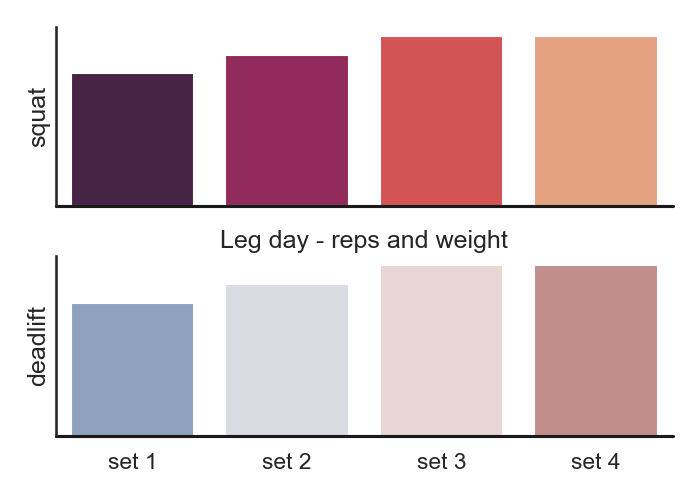
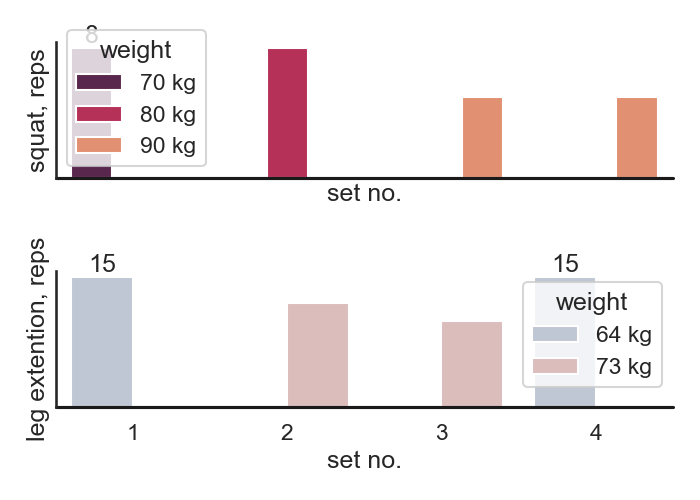
Add test placeholder. Improve figure

diff --git a/src/plot.py b/src/plot.py
@@ -4,6 +4,7 @@ Author: Gustav Collin Rasmussen
 Purpose: Plot weight-training data
 """
 
+import pandas as pd
 import numpy as np
 import seaborn as sns
 import matplotlib.pyplot as plt
@@ -12,46 +13,62 @@ from tinydb import TinyDB
 
 from training import describe_workout, show_exercise
 
+# import matplotlib
+# print("matplotlib: {}".format(matplotlib.__version__))
 
-def get_data():
+
+def get_data(date, exercises):
     db = TinyDB("data/db.json")
     log = db.table("log")
 
-    # data = describe_workout(log, "2021-12-13")
-    data = show_exercise(log, "squat", "2021-12-11")
-    return data
+    dfs = []
+    for exercise in exercises:
+        _ = show_exercise(log, exercise, date)
+        dfs.append(pd.DataFrame(data=_))
+
+    return dfs
 
 
-def show_plot(data):
+def show_plot(dfs):
     """Plot training data from specific date"""
     sns.set_theme(style="white", context="talk")
 
     f, (ax1, ax2) = plt.subplots(2, 1, figsize=(7, 5), sharex=True)
 
-    x = np.array(["set 1", "set 2", "set 3", "set 4"])
-    y1 = np.array([70, 80, 90, 90])
-    sns.barplot(x=x, y=y1, palette="rocket", ax=ax1)
+    sns.barplot(
+        x=dfs[0]["set no."],
+        y=dfs[0]["reps"],
+        hue=dfs[0]["weight"],
+        palette="rocket",
+        ax=ax1,
+    )
     ax1.axhline(0, color="k", clip_on=False)
-    ax1.set_ylabel("squat")
+    ax1.set_ylabel("squat, reps")
+    ax1.bar_label(ax1.containers[0])
 
-    y2 = np.array([70, 80, 90, 90])
-    sns.barplot(x=x, y=y2, palette="vlag", ax=ax2)
+    sns.barplot(
+        x=dfs[1]["set no."],
+        y=dfs[1]["reps"],
+        hue=dfs[1]["weight"],
+        palette="vlag",
+        ax=ax2,
+    )
     ax2.axhline(0, color="k", clip_on=False)
-    ax2.set_ylabel("deadlift")
+    ax2.set_ylabel("leg extention, reps")
+    ax2.bar_label(ax2.containers[0])
 
     sns.despine(bottom=True)
     plt.setp(f.axes, yticks=[])
     plt.tight_layout(h_pad=2)
-    plt.title("Leg day - reps and weight")
-    # plt.legend(labels=["a", "b", "c", "d"])
     plt.savefig("img/legday.png")
 
 
-def main(data):
-    show_plot(data)
+def main(dfs):
+    show_plot(dfs)
 
 
 if __name__ == "__main__":
-    data = get_data()
-    # print(data)
-    main(data)
+    dfs = get_data("2021-12-11", ["squat", "leg extention"])
+    # for df in dfs:
+    #     print(df)
+    main(dfs)

diff --git a/test/test_training.py b/test/test_training.py
@@ -1,0 +1,8 @@
+"""
+unit test suite for src folder
+"""
+
+
+def test_dummy():
+    """unit test placeholder."""
+    pass
